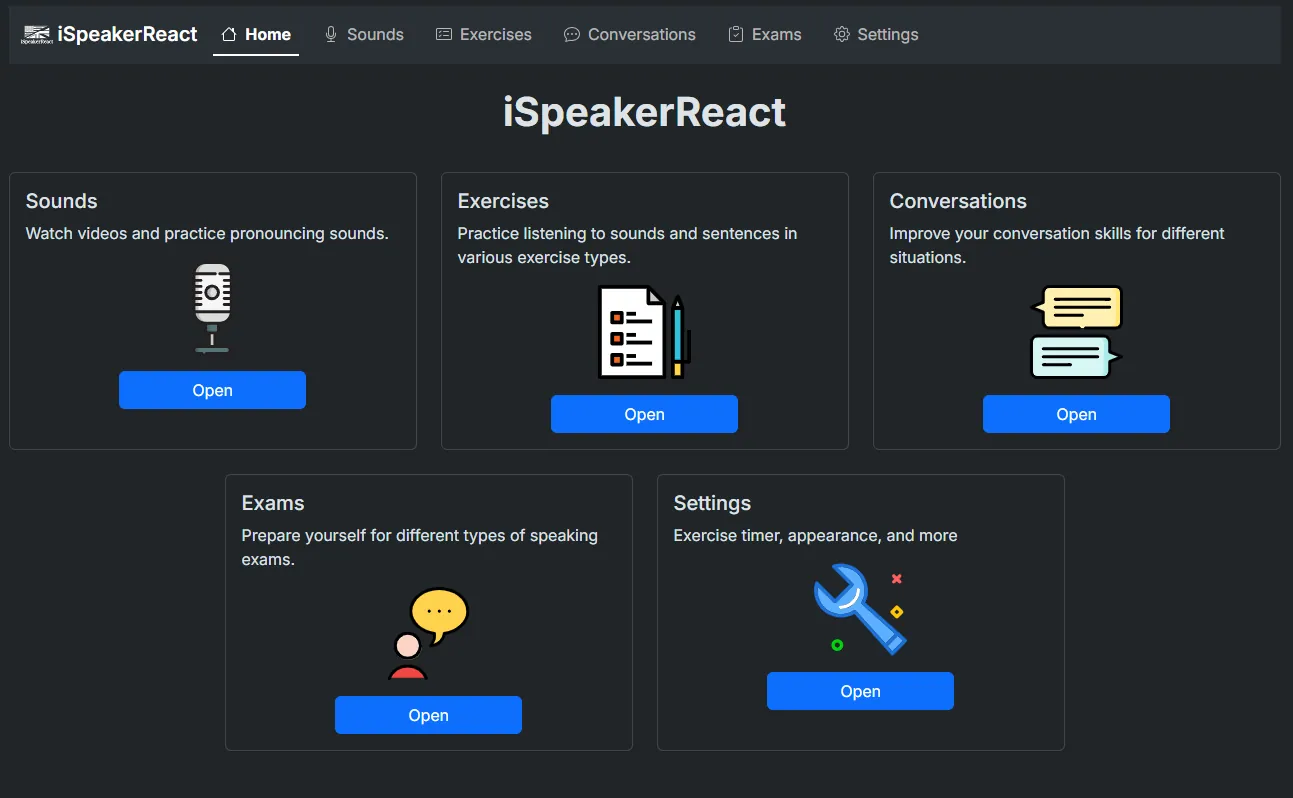
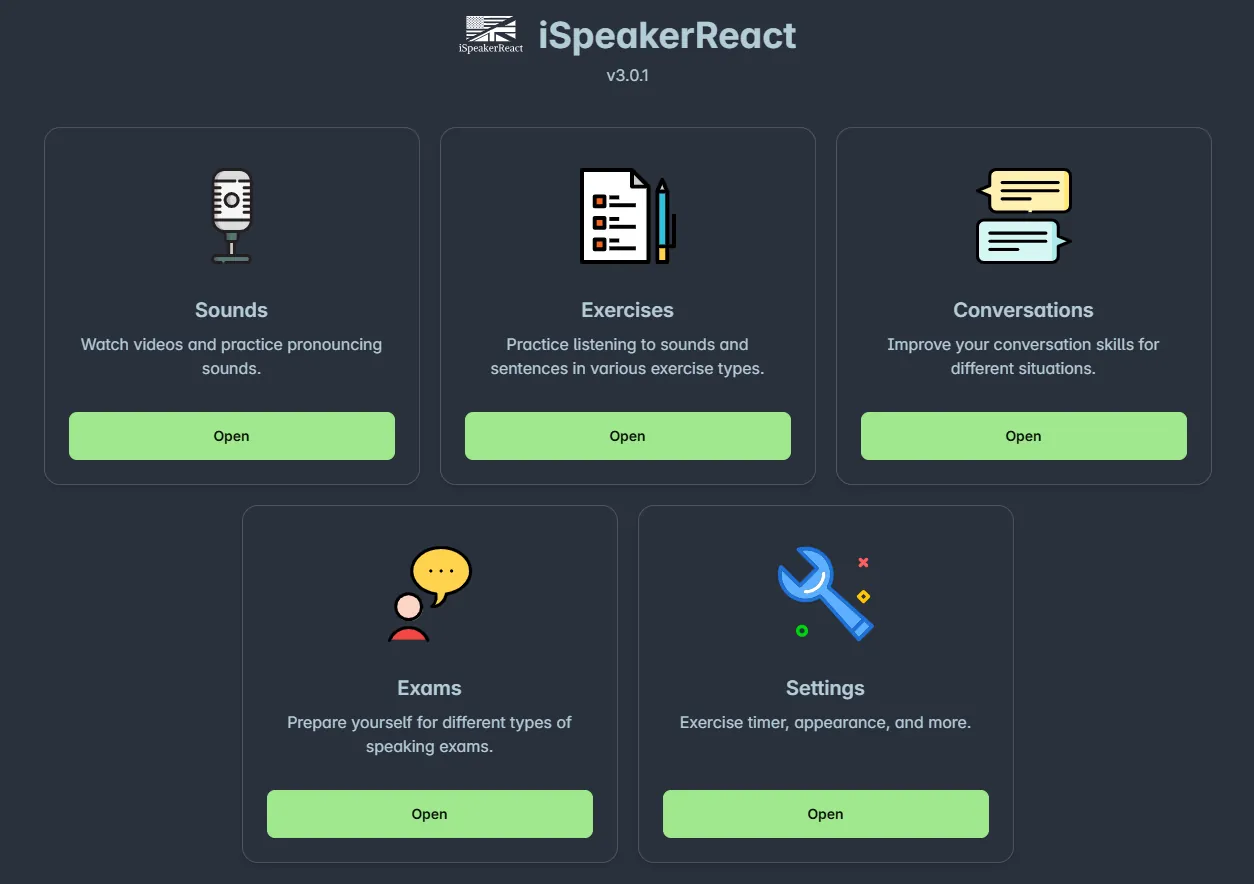
Fix manifest (#23)

diff --git a/vite.config.js b/vite.config.js
@@ -1,7 +1,7 @@
 import { visualizer } from "rollup-plugin-visualizer";
 import { defineConfig } from "vite";
-import packageJson from "./package.json";
 import { VitePWA } from "vite-plugin-pwa";
+import packageJson from "./package.json";
 
 import react from "@vitejs/plugin-react";
 
@@ -9,9 +9,10 @@ import react from "@vitejs/plugin-react";
 export default defineConfig(({ mode }) => {
     const isElectron = mode === "electron";
     const isDev = mode === "development";
+    const base = process.env.VITE_BASE || isElectron ? "./" : isDev ? "/" : "/ispeakerreact/";
 
     return {
-        base: process.env.VITE_BASE || isElectron ? "./" : isDev ? "/" : "/ispeakerreact/",
+        base: base,
         build: {
             rollupOptions: {
                 output: {
@@ -33,16 +34,60 @@ export default defineConfig(({ mode }) => {
                     name: "iSpeakerReact",
                     short_name: "iSpeakerReact",
                     theme_color: "#fcfcfc",
+                    description:
+                        "An English-learning interactive tool written in React, designed to help learners practice speaking and listening.",
                     icons: [
                         {
-                            src: "/images/icons/ios/192.png",
+                            src: `${base}images/icons/ios/192.png`,
                             sizes: "192x192",
                             type: "image/png",
                         },
                         {
-                            src: "/images/icons/ios/512.png",
+                            src: `${base}images/icons/ios/512.png`,
                             sizes: "512x512",
                             type: "image/png",
+                        },
+                    ],
+                    screenshots: [
+                        {
+                            src: `${base}images/screenshots/screenshot-00.webp`,
+                            sizes: "1920x1080",
+                            type: "image/webp",
+                        },
+                        {
+                            src: `${base}images/screenshots/screenshot-01.webp`,
+                            sizes: "1920x1080",
+                            type: "image/webp",
+                        },
+                        {
+                            src: `${base}images/screenshots/screenshot-02.webp`,
+                            sizes: "1920x1080",
+                            type: "image/webp",
+                        },
+                        {
+                            src: `${base}images/screenshots/screenshot-03.webp`,
+                            sizes: "1920x1080",
+                            type: "image/webp",
+                        },
+                        {
+                            src: `${base}images/screenshots/screenshot-04.webp`,
+                            sizes: "1920x1080",
+                            type: "image/webp",
+                        },
+                        {
+                            src: `${base}images/screenshots/screenshot-05.webp`,
+                            sizes: "1920x1080",
+                            type: "image/webp",
+                        },
+                        {
+                            src: `${base}images/screenshots/screenshot-06.webp`,
+                            sizes: "1920x1080",
+                            type: "image/webp",
+                        },
+                        {
+                            src: `${base}images/screenshots/screenshot-07.webp`,
+                            sizes: "1920x1080",
+                            type: "image/webp",
                         },
                     ],
                 },
